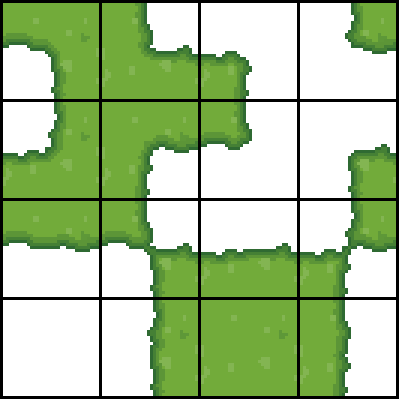
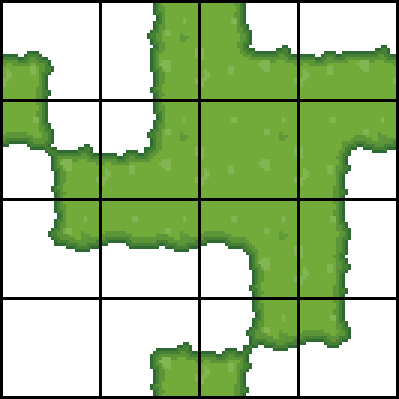
15-piece: match the reference 4x4 corner sheet layout

diff --git a/src/layouts.js b/src/layouts.js
@@ -45,10 +45,10 @@
   // 15-piece: 4x4 sheet whose tiles join into one continuous picture.
   // Contains all 16 corner combinations (mask 0 is the empty tile).
   const LAYOUT_15 = [
-    [7, 13, 8, 2],
-    [14, 11, 1, 4],
-    [3, 5, 12, 10],
-    [0, 6, 15, 9],
+    [8, 6, 13, 12],
+    [5, 14, 15, 11],
+    [2, 3, 7, 9],
+    [0, 4, 10, 1],
   ];
 
   // 17-piece top-down: 3x3 block, vertical strip, horizontal strip,
